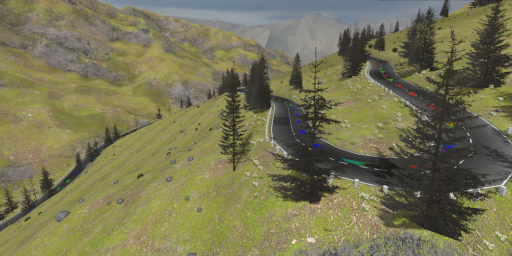
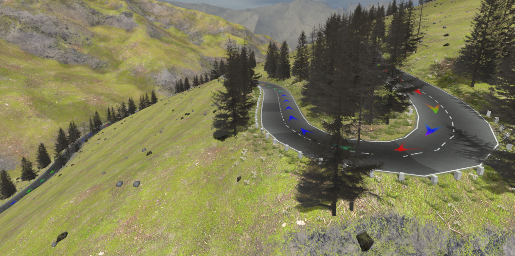
Increase GC grass density

diff --git a/README.md b/README.md
@@ -26,7 +26,7 @@ A rally game based on OpenStreetMap data.
 ![Screenshot-R0-2023-02-25](media/Screenshot-R0-2023-02-25.png)
 
 ### Großglockner High Alpine Road
-![Screenshot-GH-2024-01-03](media/Screenshot-GH-2024-01-03.png)
+![Screenshot-GH-2024-01-27](media/Screenshot-GH-2024-01-27.png)
 
 ### New York City
 ![Screenshot-NYC-2022-12-07](media/Screenshot-NYC-2023-12-07.png)
